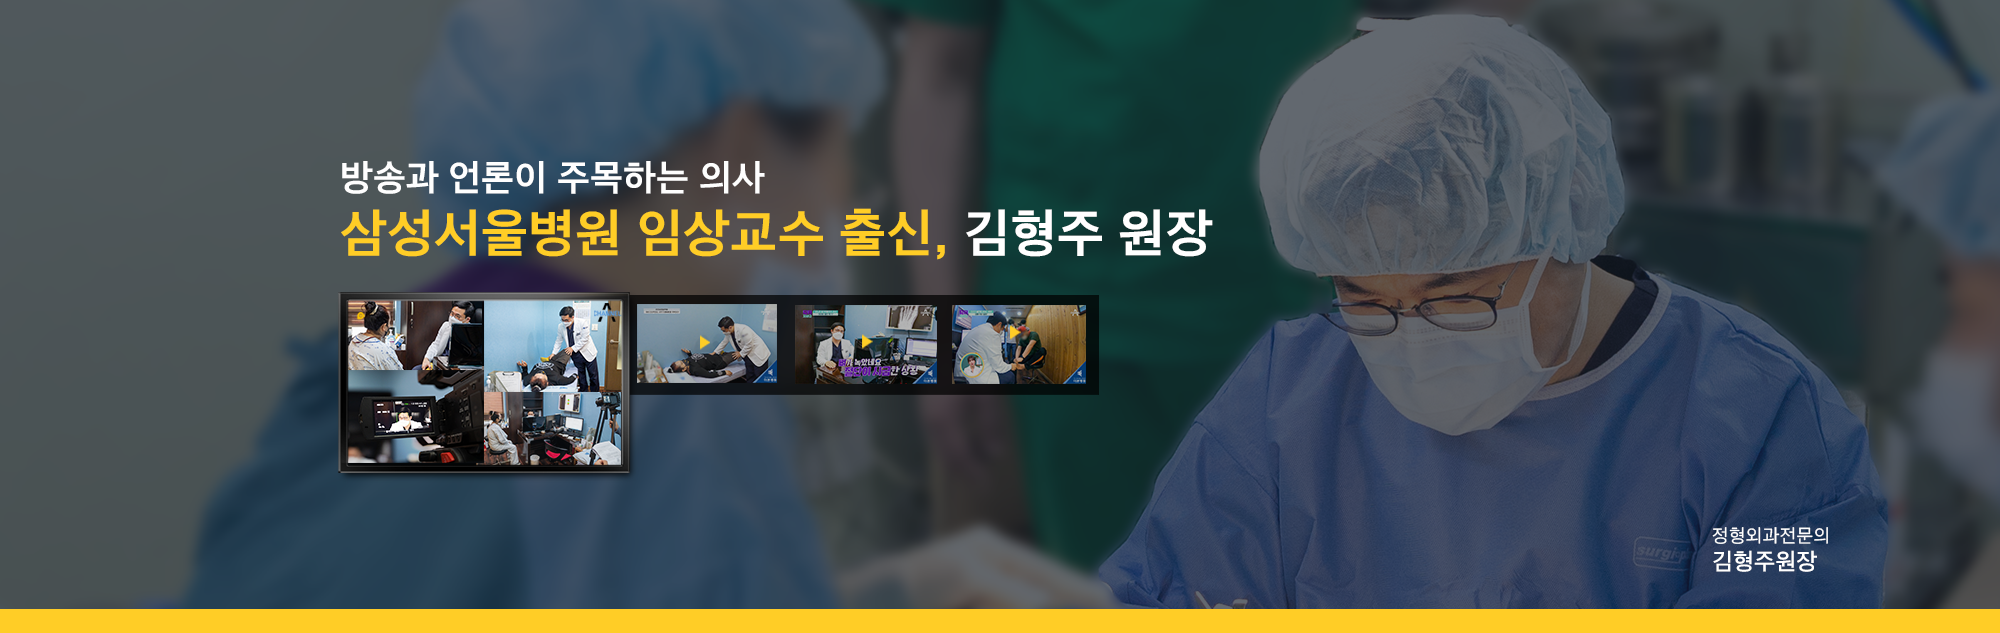
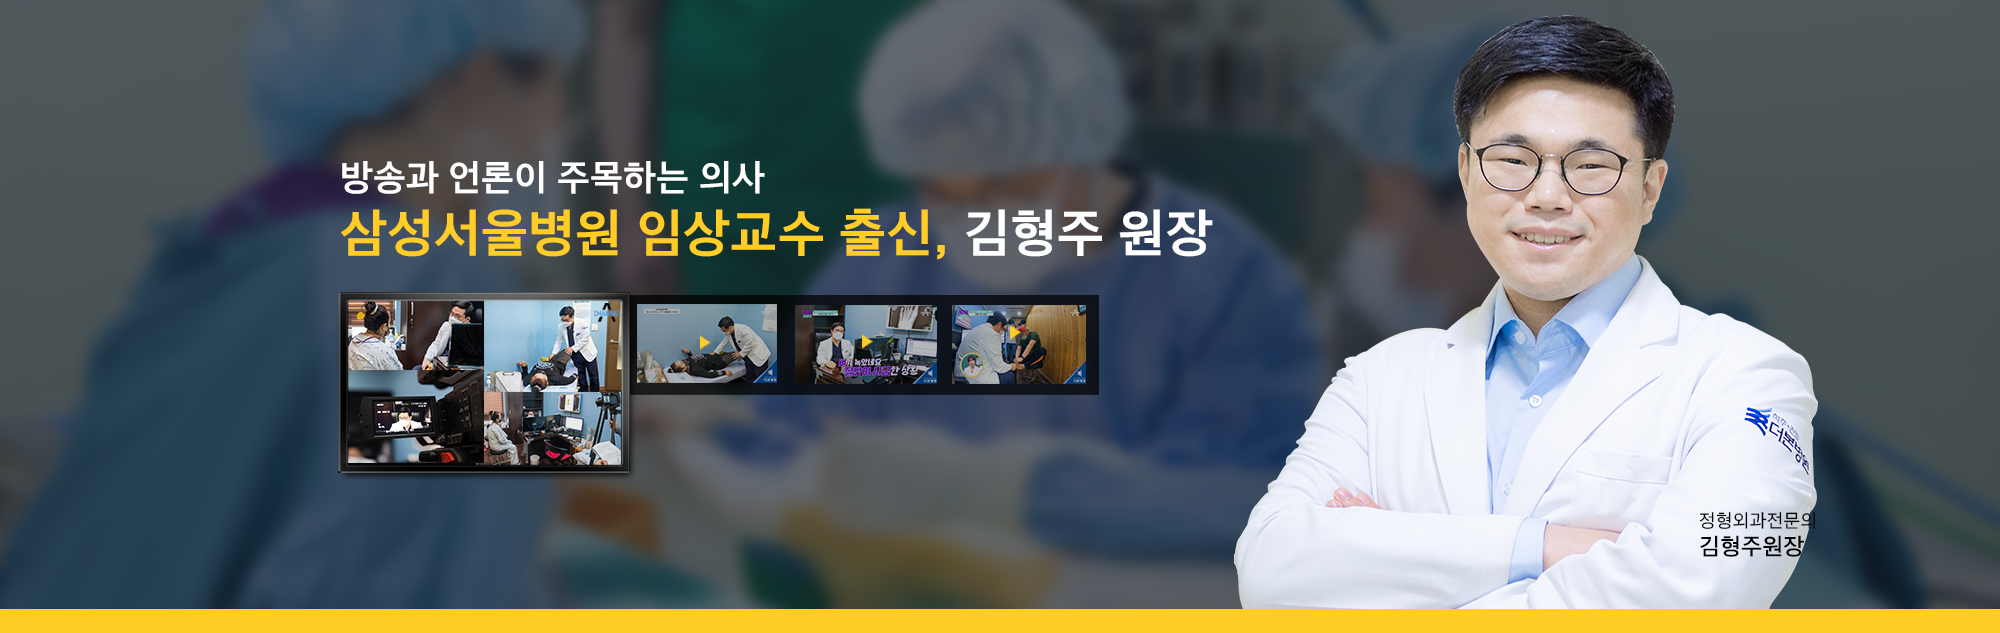
main

diff --git a/index.html b/index.html
@@ -1986,7 +1986,9 @@ background-color:#ffffff;
 			<div style="height:633px;background:url(files/main3.png);background-size:2000px;;background-position:center top;position:absolute;background-repeat:no-repeat;width:100%;display:none; " id="theme_609899791512a_4" ></div>
 			<div style="height:633px;background:url(files/main2.png);background-size:2000px;;background-position:center top;position:absolute;background-repeat:no-repeat;width:100%;display:none; " id="theme_609899791512a_5" ></div>
 			<div style="height:633px;background:url(files/main15.png);background-size:2000px;;background-position:center top;position:absolute;background-repeat:no-repeat;width:100%;display:none; " id="theme_609899791512a_6" ></div>
-			<div style="height:633px;background:url(files/main8.png);background-size:2000px;;background-position:center top;position:absolute;background-repeat:no-repeat;width:100%;display:none; " id="theme_609899791512a_7" ></div>
+			<div style="height:633px;background:url(files/main14.png);background-size:2000px;;background-position:center top;position:absolute;background-repeat:no-repeat;width:100%;display:none; " id="theme_609899791512a_7" ></div>
+			<div style="height:633px;background:url(files/main8.png);background-size:2000px;;background-position:center top;position:absolute;background-repeat:no-repeat;width:100%;display:none; " id="theme_609899791512a_8" ></div>
+
 			
 <div style="position:absolute;bottom:20px;width:100%;text-align:center;">
 	<img src="img/theme-btn.png" style="border:2px solid #FFFFFF;margin:3px;cursor:pointer;border-radius:50%;" height=15 onmouseover="theme_609899791512a_theme_view(0);" id="theme_609899791512a_btn_0">
@@ -1996,7 +1998,9 @@ background-color:#ffffff;
 	<img src="img/theme-btn.png" style="border:2px solid #FFFFFF;margin:3px;cursor:pointer;border-radius:50%;" height=15 onmouseover="theme_609899791512a_theme_view(4);" id="theme_609899791512a_btn_4">
 	<img src="img/theme-btn.png" style="border:2px solid #FFFFFF;margin:3px;cursor:pointer;border-radius:50%;" height=15 onmouseover="theme_609899791512a_theme_view(5);" id="theme_609899791512a_btn_5">
 	<img src="img/theme-btn.png" style="border:2px solid #FFFFFF;margin:3px;cursor:pointer;border-radius:50%;" height=15 onmouseover="theme_609899791512a_theme_view(6);" id="theme_609899791512a_btn_6">
-	<img src="img/theme-btn.png" style="border:2px solid #FFFFFF;margin:3px;cursor:pointer;border-radius:50%;" height=15 onmouseover="theme_609899791512a_theme_view();" id="theme_609899791512a_btn_7">
+	<img src="img/theme-btn.png" style="border:2px solid #FFFFFF;margin:3px;cursor:pointer;border-radius:50%;" height=15 onmouseover="theme_609899791512a_theme_view(7);" id="theme_609899791512a_btn_7">
+	<img src="img/theme-btn.png" style="border:2px solid #FFFFFF;margin:3px;cursor:pointer;border-radius:50%;" height=15 onmouseover="theme_609899791512a_theme_view();" id="theme_609899791512a_btn_8">
+
 </div>
 <img src="files/thebone-arrow-left.png" style="position:absolute;left:50%;margin-left:-830px;top:236px;cursor:pointer;" onclick="theme_609899791512a_prev()">
 <img src="files/thebone-arrow-right.png" style="position:absolute;left:50%;margin-left:775px;top:236px;cursor:pointer;" onclick="theme_609899791512a_next()">
@@ -2007,11 +2011,11 @@ background-color:#ffffff;
 <script>
 var theme_609899791512a_flag = 0;
 var theme_609899791512a_theme_no = 0;
-var theme_609899791512a_theme_total = 8;
+var theme_609899791512a_theme_total = 9;
 function theme_609899791512a_theme_view(no){
 	theme_609899791512a_theme_no = no;
 	try{
-		for(var i=0;i<8;i++){
+		for(var i=0;i<9;i++){
 			document.getElementById('theme_609899791512a_btn_'+i).style.borderColor = '#FFFFFF';
 			$('#theme_609899791512a_'+i).fadeOut(300);
 		}
